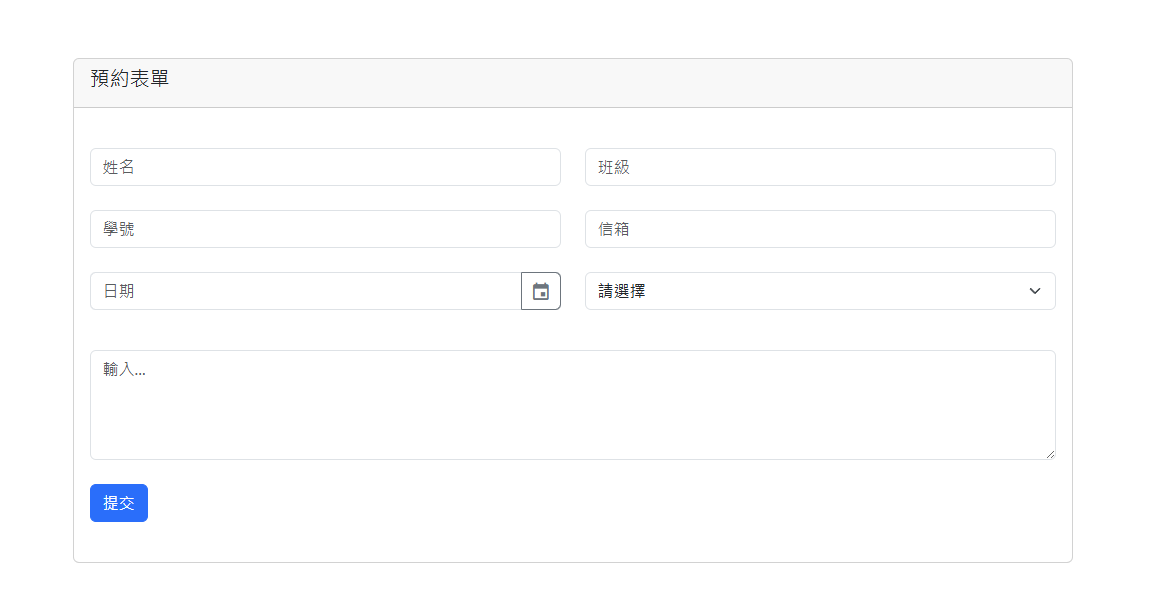
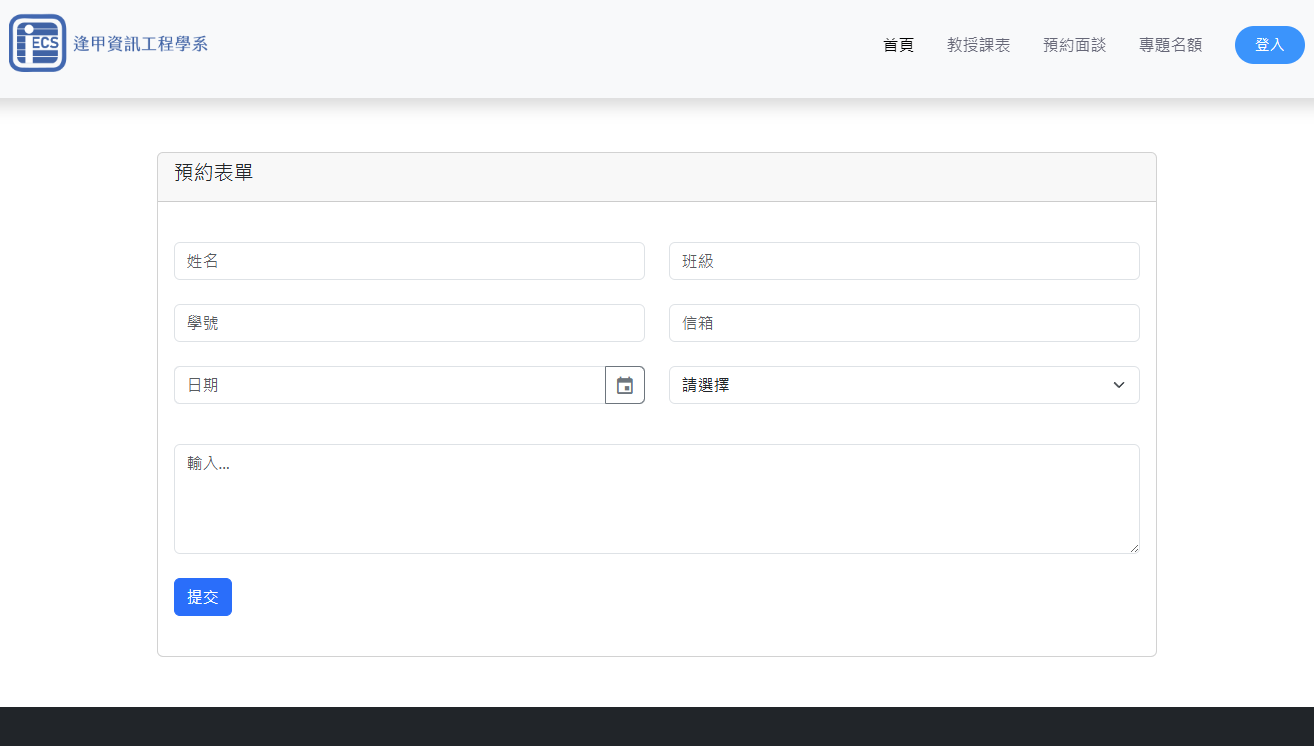
Update README content

diff --git a/README.md b/README.md
@@ -17,8 +17,8 @@
 預約表單填寫 & 後台名單顯示
 <details>
     <summary>查看圖片</summary>
-    <img src="assets/appointment.png" alt="系統架構圖" width="700"height="400">
-    <img src="assets/record.png" alt="系統架構圖" width="700" height="400">
+    <img src="assets/appointment.png" alt="預約表單" width="700"height="400">
+    <img src="assets/record.png" alt="預約紀錄" width="700" height="400">
 </details>
 
 gmail預約通知格式
